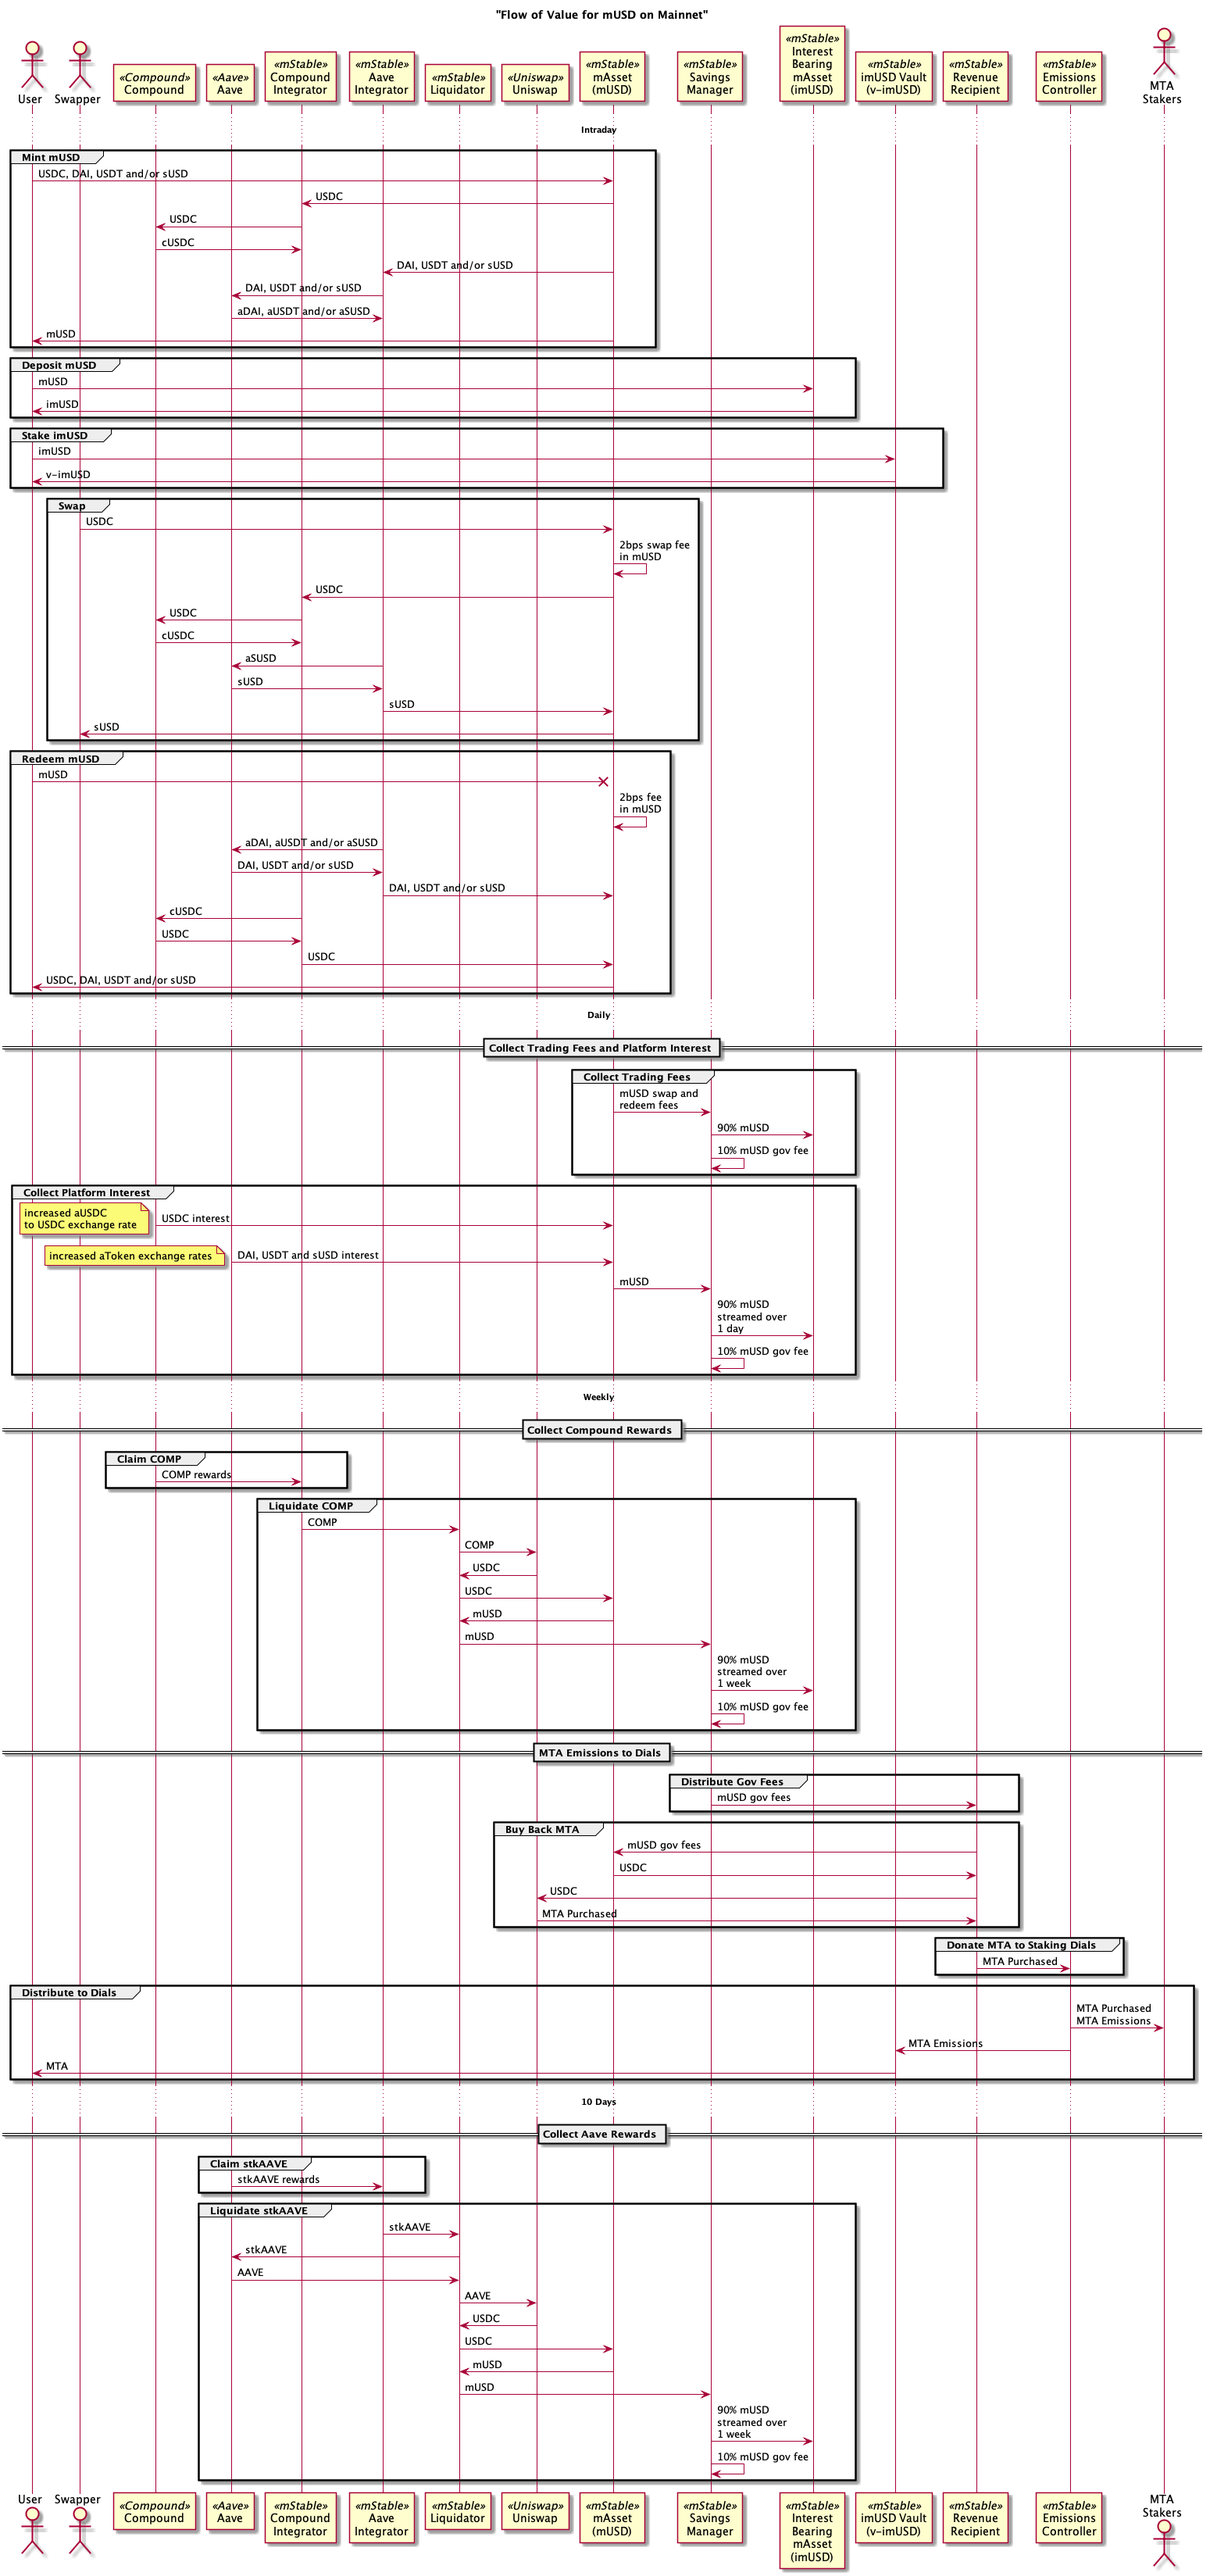
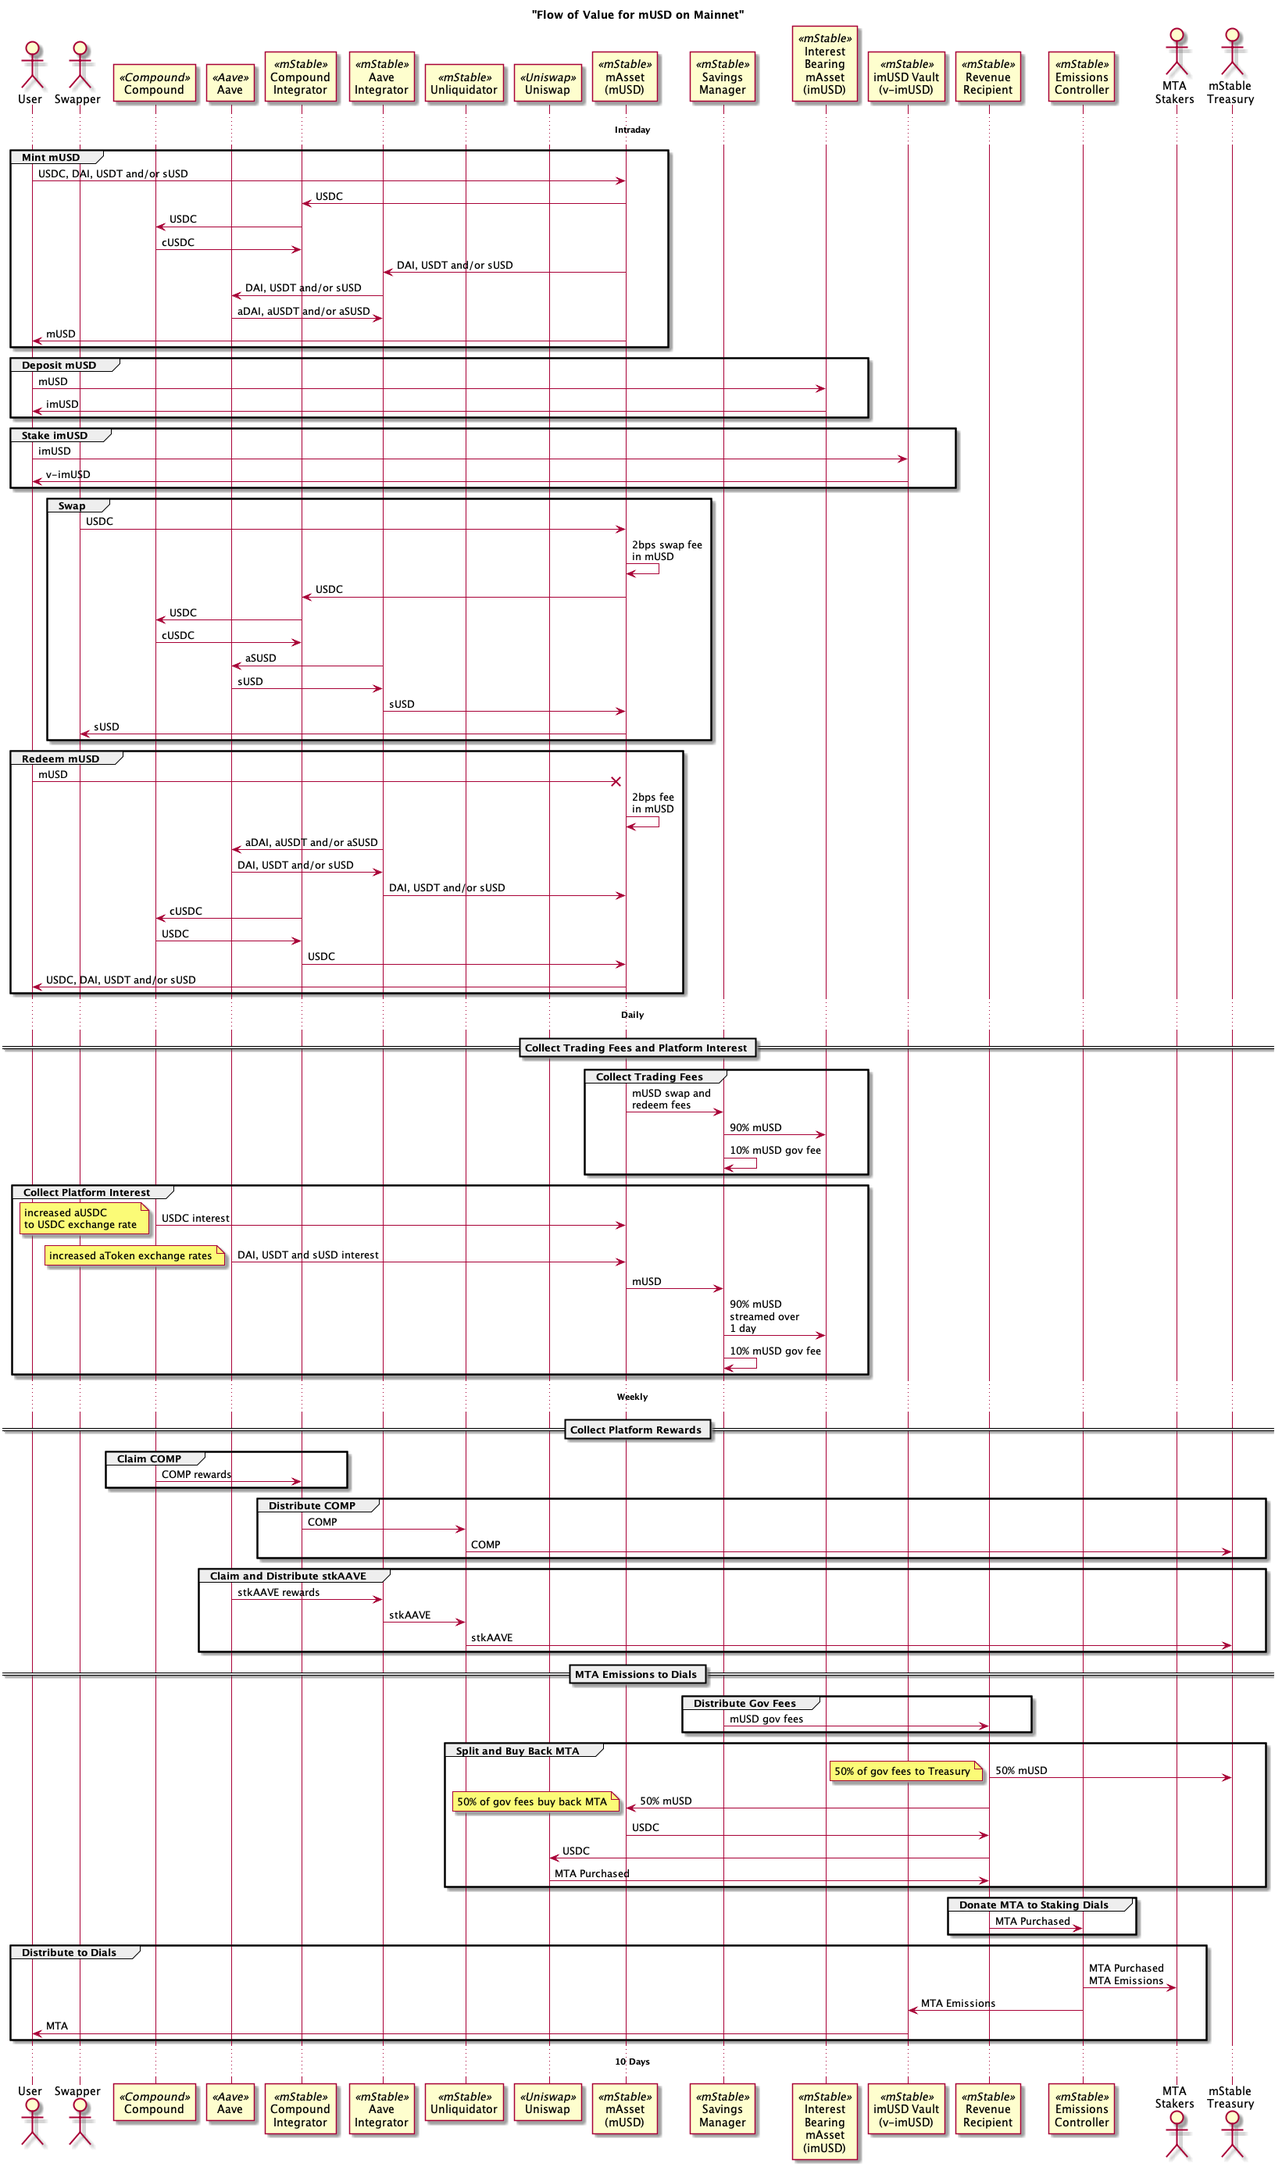
Updated V1 processes with 50% split revenue between treasury and stakers

diff --git a/README.md b/README.md
@@ -78,7 +78,7 @@ npx puml generate imusd_busd.puml -o imusd_busd.png
 cd valueFlows
 npx puml generate musdValueFlows.puml -o musdValueFlows.png
 npx puml generate musdPolygonValueFlows.puml -o musdPolygonValueFlows.png
-npx puml generate convexFlow.puml -o convexFlow.png
+npx puml generate convexFlows.puml -o convexFlows.png
 ```
 
 ### VS Code extension

diff --git a/liquidations/README.md b/liquidations/README.md
@@ -1,7 +1,7 @@
 
 # Liquidation Processes
 
-Processes that liquidate platform rewards like COMP, AAVE and Matic
+These liquidation process are no longer used. COMP and stkAAVE are now sent directly to the mStable Treasury and the Matic rewards on Polygon have ended.
 
 ## COMP from mUSD
 

diff --git a/buyBack/README.md b/buyBack/README.md
@@ -1,5 +1,7 @@
 # BuyBack and Make Processes
 
+This process is not longer used. Revenue is now split 50/50 with treasury and a buy back of MTA for stakers.
+
 ## Feeder Pools
 
 ![Collect Gov Fees - Feeder Pool](./buybackFeederPoolMainnet.png)
